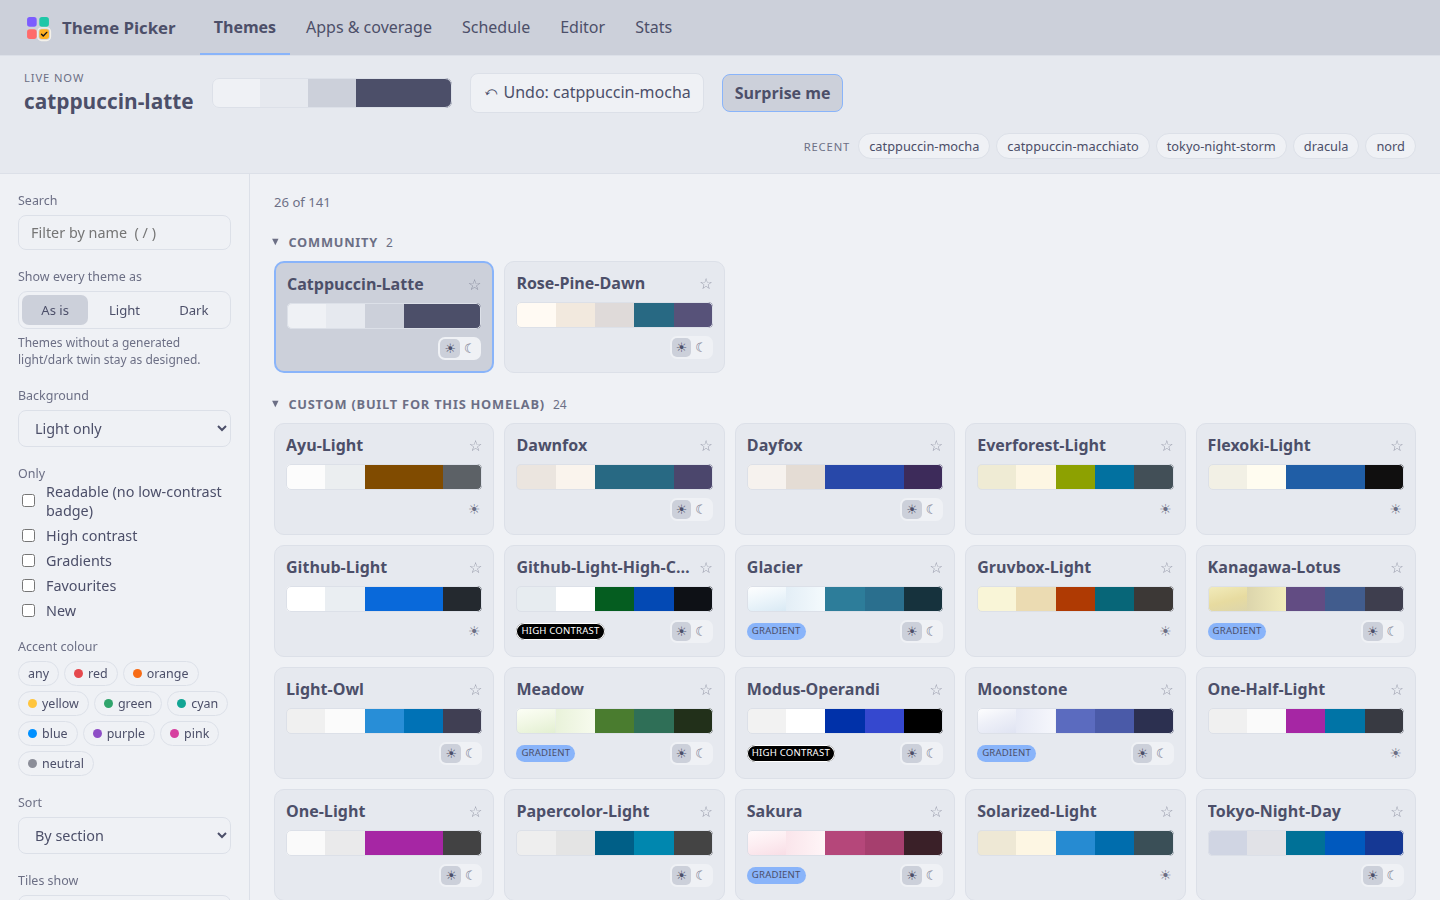
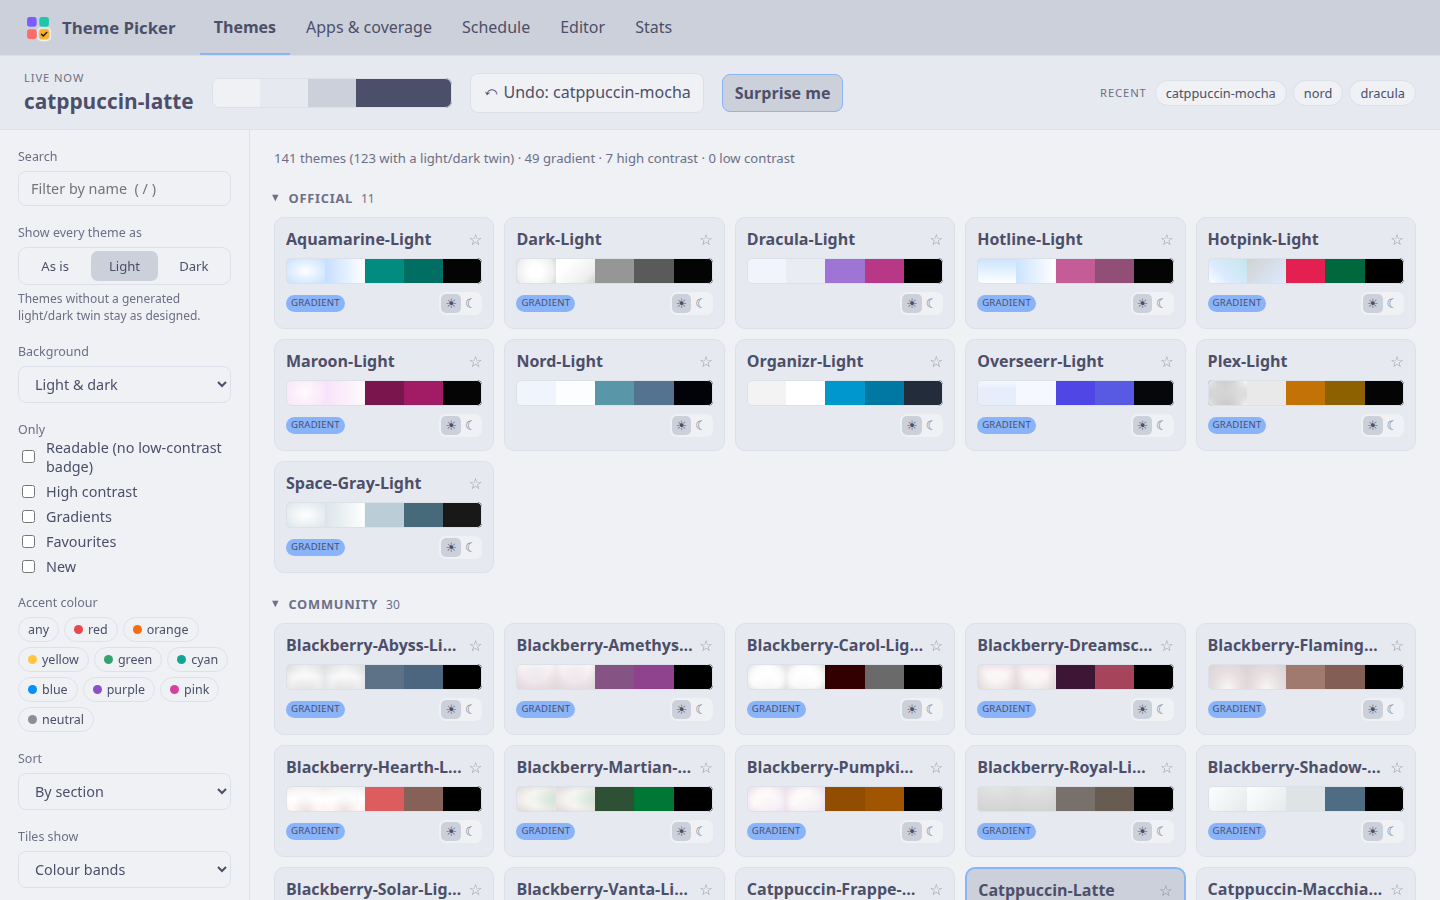
README: light screenshot shows the Light view
Every theme shown as its light twin, with the Light button selected so
the picture matches its caption.

diff --git a/README.md b/README.md
@@ -39,9 +39,10 @@ a contrast audit, per-app pins and an in-browser theme editor.
 ## Screenshots
 
 The picker wears the live theme itself. Here it is in Catppuccin Latte, with
-the list narrowed to light themes:
+*Show every theme as* set to **Light**. Every dark theme appears as its
+generated light twin, so you can browse all of them in the mode you want:
 
-![The picker in a light theme, filtered to light themes only](docs/screenshots/light.png)
+![The picker in a light theme, with every theme shown in its light form](docs/screenshots/light.png)
 
 The editor starts from any theme or from an image. It previews the result on a
 mock app panel and checks every text role's contrast as you go:
